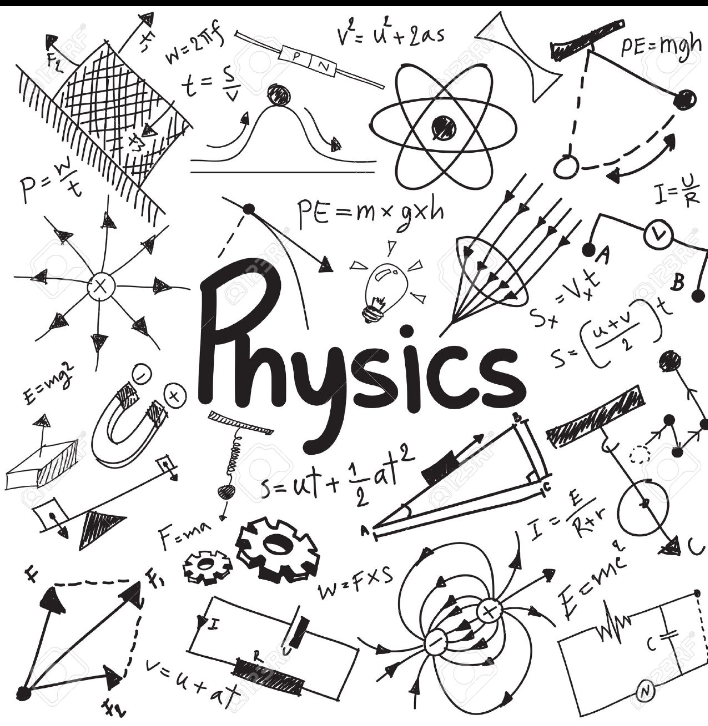
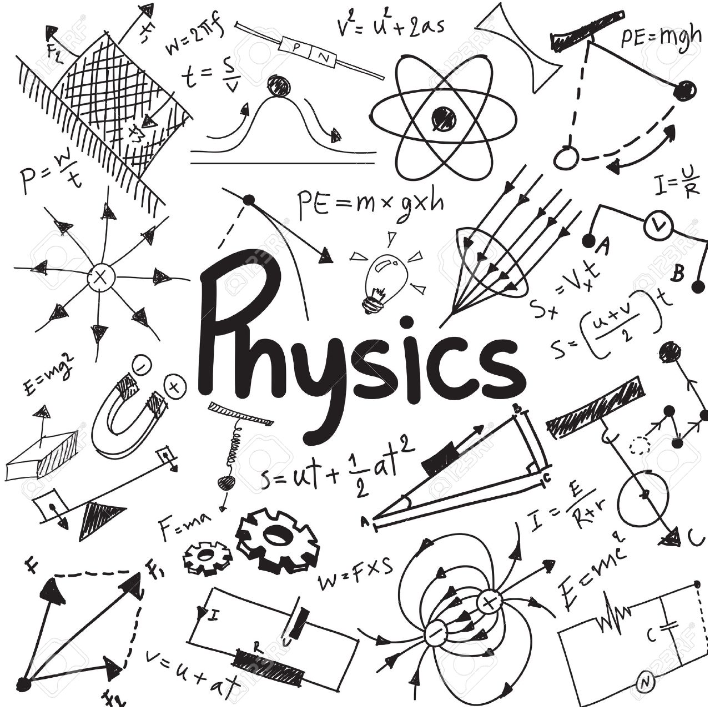
physics updated and some photo is also added

diff --git a/extensions/Subjects/Physics.html b/extensions/Subjects/Physics.html
@@ -1,107 +1,97 @@
 <!doctype html>
 <html lang="en">
-  <head>
-    
-    <meta charset="utf-8">
-    <meta name="viewport" content="width=device-width, initial-scale=1">
 
-    <!--<style type = css>
-       .alpha { color: $purple; }
-.beta {
-  color: $yellow-300;
-  background-color: $indigo-900;
-}
-    </style>-->
-    <link href="https://cdn.jsdelivr.net/npm/bootstrap@5.0.0-beta3/dist/css/bootstrap.min.css" rel="stylesheet" integrity="sha384-eOJMYsd53ii+scO/bJGFsiCZc+5NDVN2yr8+0RDqr0Ql0h+rP48ckxlpbzKgwra6" crossorigin="anonymous">
- <!--  <style>
-      body{
-        background : turquoise;
-      }-->
-    </style>
-    <title>Physics Assignments</title>
-    <style>
-      body{
-        background : turquoise;
-      }
-    </style>
-  </head>
-  <body>
-    
-  <div class ="card col-lg-55 mx-auto" style="width: 18rem;">
-    <div class="card" style="width: 18rem;">
-               
-            
-        <div class="card-body">
-          <h2 class="card-title">Physics</h>
-          <p class="card-text" "container"><strong>Latest Assignments</strong><br></p>
-        
-        </div>
+<head>
+
+  <meta charset="utf-8">
+  <meta name="viewport" content="width=device-width, initial-scale=1">
+
+  <link href="https://cdn.jsdelivr.net/npm/bootstrap@5.0.0-beta3/dist/css/bootstrap.min.css" rel="stylesheet"
+    integrity="sha384-eOJMYsd53ii+scO/bJGFsiCZc+5NDVN2yr8+0RDqr0Ql0h+rP48ckxlpbzKgwra6" crossorigin="anonymous">
+
+  <link rel="stylesheet" href="../../static/css/physics.css">
+  <title>Physics Assignments</title>
+</head>
+
+<body>
+
+  <header class="container-fluid text-center p-2 shadow">
+    <h2>Physics</h2>
+  </header>
+
+  <main class="container-fluid">
+    <section>
+      <h4 class="bg-success p-2 my-md-2">Latest Physics Assignments</h4>
+      <div class="container-fluid">
+        <a href="https://www.bits-pilani.ac.in/uploads/Manjuladevi/BI-Prism_Wavelength_of_Sodium.pdf"
+          class="list-group-item list-group-item-action list-group-item-primary"><span class="fw-bolder">Experiment
+            1:</span> To determine the
+          wavelength of sodium light with help of Fresnel's Bi-Prism!</a>
+        <a href="https://www.nitj.ac.in/physics/Downloads/LabManual6330.pdf"
+          class="list-group-item list-group-item-action list-group-item-secondary"><span class="fw-bolder">Experiment
+            2:</span> To Determine the
+          refractive index and dispersive power of the material of prism with the help of sprectometer!</a>
+          <a href="https://www.ucd.ie/t4cms/2labman_newtons8.pdf"
+          class="list-group-item list-group-item-action list-group-item-success"><span class="fw-bolder">Experiment
+            3:</span> To determine the
+          sodium light by Newton's ring method!</a>
+          <a href="https://www.niser.ac.in/sps/sites/default/files/basic_page/Sodium%20D-line%20splitting.pdf"
+          class="list-group-item list-group-item-action list-group-item-danger"><span class="fw-bolder">Experiment
+            4:</span> To determine the
+          wavelength of sodium light by plane diffraction grating using spectrometer</a>
+          <a href="https://physics.iitd.ac.in/assets/uploads/teaching-labs/12.pdf"
+          class="list-group-item list-group-item-action list-group-item-warning"><span class="fw-bolder">Experiment
+            5:</span> To demonstrate the
+          diffraction pattern and determine the wavelength using plane diffraction grating and spectrometer!</a>
+        <a href="http://satish0402.weebly.com/uploads/9/4/6/7/9467277/polarimeter.pdf"
+          class="list-group-item list-group-item-action list-group-item-info"><span class="fw-bolder">Experiment
+            6:</span> To determine the
+          wavelength and number of lines on a diffraction grating suing semicondutor laser diod!</a>
+
+        <a href="http://web.physics.ucsb.edu/~phys128/experiments/interferometry/measuring_wavelength.pdf"
+          class="list-group-item list-group-item-action list-group-item-dark"><span class="fw-bolder">Experiment
+            7:</span> To determine the
+          specific to rotation of sugar solution with the help of polarimeter!</a>
+        <a href="http://www1.phys.vt.edu/~labs/phys3455/fall07/ph3455_lab1.pdf"
+          class="list-group-item list-group-item-action list-group-item-primary"><span class="fw-bolder">Experiment
+            8:</span> Determine the
+          width of the single slit and diameter of circular aperature using Fraunhofer diffraction pattern produced be
+          semicondutorlaser diod!</a>
+        <a href="https://physics.iitd.ac.in/assets/uploads/teaching-labs/9.pdf"
+          class="list-group-item list-group-item-action list-group-item-secondary"><span class="fw-bolder">Experiment
+            9:</span> To determine the
+          e/m ratio bt Thomson's method!</a>
+        <a href="https://www.iitr.ac.in/departments/PH/uploads/Teaching%20Laboratory/Electronics/1.%20PN%20junction%20Diode%20characteristics_Final.pdf"
+          class="list-group-item list-group-item-action list-group-item-success"><span class="fw-bolder">Experiment
+            10:</span>To study the P-N
+          junction diod characteristics, in forwarded and reverse bias conditions!</a>
+        <a href="https://www.cmi.ac.in/~debangshu/lab1/zener.pdf"
+          class="list-group-item list-group-item-action list-group-item-danger"><span class="fw-bolder">Experiment
+            11:</span> To study the Zener
+          diod characteristics!</a>
+        <a href="https://www.iitr.ac.in/departments/PH/uploads/Teaching%20Laboratory/Electronics/2.Draw%20input%20and%20Output%20characteristics%20of%20a%20bipolar%20transistor.pdf"
+          class="list-group-item list-group-item-action list-group-item-warning"><span class="fw-bolder">Experiment
+            12:</span> To study the
+          characteristicsand gain od transistor in C-B and C-E mode!</a>
+
       </div>
-    </div>
-    <br><br><br>
+    </section>
 
-    <div class="list-group">
-        <div class ="card col-lg-55 mx-auto" style="width: 40rem;">
-        <a href="#" class="list-group-item list-group-item-action"><strong>List of all experiments</strong></a>
-        <div class ="card col-lg-55 mx-auto" style="width: 30rem;">
-      
-        <a href="https://www.bits-pilani.ac.in/uploads/Manjuladevi/BI-Prism_Wavelength_of_Sodium.pdf" class="list-group-item list-group-item-action list-group-item-primary"><b>Experiment 1:</b> To determine the wavelength of sodium light with help of Fresnel's Bi-Prism!</a>
-        <a href="https://www.nitj.ac.in/physics/Downloads/LabManual6330.pdf" class="list-group-item list-group-item-action list-group-item-secondary"><b>Experiment 2:</b> To Determine the refractive index and dispersive power of the material of prism with the help of sprectometer!</a>
-        <a href="https://www.ucd.ie/t4cms/2labman_newtons8.pdf" class="list-group-item list-group-item-action list-group-item-success"><b>Experiment 3:</b> To determine the sodium light by Newton's ring method!</a>
-        <a href="https://www.niser.ac.in/sps/sites/default/files/basic_page/Sodium%20D-line%20splitting.pdf" class="list-group-item list-group-item-action list-group-item-danger"><b>Experiment 4:</b> To determine the wavelength of sodium light by plane diffraction grating using spectrometer</a>
-        <a href="https://physics.iitd.ac.in/assets/uploads/teaching-labs/12.pdf" class="list-group-item list-group-item-action list-group-item-warning"><b>Experiment 5:</b> To demonstrate the diffraction pattern and determine the wavelength using plane diffraction grating and spectrometer!</a>
-        <a href="http://satish0402.weebly.com/uploads/9/4/6/7/9467277/polarimeter.pdf" class="list-group-item list-group-item-action list-group-item-info"><b>Experiment 6:</b> To determine the wavelength and number of lines on a diffraction grating suing semicondutor laser diod!</a>
-        
-        <a href="http://web.physics.ucsb.edu/~phys128/experiments/interferometry/measuring_wavelength.pdf" class="list-group-item list-group-item-action list-group-item-dark"><b>Experiment 7:</b> To determine the specific to rotation of sugar solution with the help of polarimeter!</a>
-        <a href="http://www1.phys.vt.edu/~labs/phys3455/fall07/ph3455_lab1.pdf" class="list-group-item list-group-item-action list-group-item-primary"><b>Expertiment 8:</b> Determine the width of the single slit and diameter of circular aperature using Fraunhofer diffraction pattern produced be semicondutorlaser diod!</a>
-        <a href="https://physics.iitd.ac.in/assets/uploads/teaching-labs/9.pdf" class="list-group-item list-group-item-action list-group-item-secondary"><b>Experiment 9:</b> To determine the e/m ratio bt Thomson's method!</a>
-        <a href="https://www.iitr.ac.in/departments/PH/uploads/Teaching%20Laboratory/Electronics/1.%20PN%20junction%20Diode%20characteristics_Final.pdf" class="list-group-item list-group-item-action list-group-item-success"><b>Experiment 10:</b>To study the P-N junction diod characteristics, in forwarded and reverse bias conditions!</a>
-        <a href="https://www.cmi.ac.in/~debangshu/lab1/zener.pdf" class="list-group-item list-group-item-action list-group-item-danger"><b>Experiment 11:</b> To study the Zener diod characteristics!</a>
-        <a href="https://www.iitr.ac.in/departments/PH/uploads/Teaching%20Laboratory/Electronics/2.Draw%20input%20and%20Output%20characteristics%20of%20a%20bipolar%20transistor.pdf" class="list-group-item list-group-item-action list-group-item-warning"><b>Experiment 12:</b> To study the characteristicsand gain od transistor in C-B and C-E mode!</a>
-        
+    <a href="../../index.html" class="btn btn-primary container-fluid my-md-3 fw-bolder">Back to home</a>
 
+  </main>
 
-       
+    <script src="https://cdn.jsdelivr.net/npm/bootstrap@5.0.0-beta3/dist/js/bootstrap.bundle.min.js"
+      integrity="sha384-JEW9xMcG8R+pH31jmWH6WWP0WintQrMb4s7ZOdauHnUtxwoG2vI5DkLtS3qm9Ekf"
+      crossorigin="anonymous"></script>
 
+    <script src="https://cdn.jsdelivr.net/npm/@popperjs/core@2.9.1/dist/umd/popper.min.js"
+      integrity="sha384-SR1sx49pcuLnqZUnnPwx6FCym0wLsk5JZuNx2bPPENzswTNFaQU1RDvt3wT4gWFG"
+      crossorigin="anonymous"></script>
+    <script src="https://cdn.jsdelivr.net/npm/bootstrap@5.0.0-beta3/dist/js/bootstrap.min.js"
+      integrity="sha384-j0CNLUeiqtyaRmlzUHCPZ+Gy5fQu0dQ6eZ/xAww941Ai1SxSY+0EQqNXNE6DZiVc"
+      crossorigin="anonymous"></script>
 
-        <br>
-        
-       
+</body>
 
-
-
-</div>
-<a href="https://moonshotthinkers.github.io/QualityEducation/" class="list-group-item list-group-item-action list-group-item-info" ><strong>HOME</strong></a>
-</div>
-
-
-
-
-
-
-
-
-
-
-
-
-
-
-
-
-
-
-
-
-
-
-
-
-    <script src="https://cdn.jsdelivr.net/npm/bootstrap@5.0.0-beta3/dist/js/bootstrap.bundle.min.js" integrity="sha384-JEW9xMcG8R+pH31jmWH6WWP0WintQrMb4s7ZOdauHnUtxwoG2vI5DkLtS3qm9Ekf" crossorigin="anonymous"></script>
-
-    
-    <script src="https://cdn.jsdelivr.net/npm/@popperjs/core@2.9.1/dist/umd/popper.min.js" integrity="sha384-SR1sx49pcuLnqZUnnPwx6FCym0wLsk5JZuNx2bPPENzswTNFaQU1RDvt3wT4gWFG" crossorigin="anonymous"></script>
-    <script src="https://cdn.jsdelivr.net/npm/bootstrap@5.0.0-beta3/dist/js/bootstrap.min.js" integrity="sha384-j0CNLUeiqtyaRmlzUHCPZ+Gy5fQu0dQ6eZ/xAww941Ai1SxSY+0EQqNXNE6DZiVc" crossorigin="anonymous"></script>
-    
-  </body>
 </html>

diff --git a/extensions/allsubs.html b/extensions/allsubs.html
@@ -23,7 +23,7 @@
   <div class="row row-cols-4 gap-3 mx-auto border justify-content-center">
 
     <div class="card col align-items-center justify-content-center">
-      <img src="../static/images/physics.png" alt="Image">
+      <img src="../static/images/physics-doodles-lettering-education-vector-illustration-physics-doodles-lettering-135625483.jpg" alt="Image">
       <h4>Physics</h4>
       <a class="container-fluid btn btn-primary fw-bolder" role="button" href="Subjects/Physics.html">Learn</a>
     </div>
@@ -50,7 +50,7 @@
 
   </div>
 
-  <a href="../index.html" class="container-fluid btn btn-primary mx-auto fw-bolder" role="button">Back to Home</a>
+  <a href="../index.html" class="container-fluid btn btn-primary mx-auto fw-bolder my-md-2" role="button">Back to Home</a>
 
   <script src="https://cdn.jsdelivr.net/npm/bootstrap@5.0.0-beta3/dist/js/bootstrap.bundle.min.js"
     integrity="sha384-JEW9xMcG8R+pH31jmWH6WWP0WintQrMb4s7ZOdauHnUtxwoG2vI5DkLtS3qm9Ekf"

diff --git a/index.html b/index.html
@@ -121,7 +121,7 @@
         </div>
         <div class="row align-items-center border border-primary p-2">
             <div class="border col">
-                <img src="static/Profile Photo/i3.jpeg" class="card-img-left" alt="profile">
+                <img src="static/Profile Photo/i3.jpg" class="card-img-left" alt="profile">
                 <h4 class="card-title">Devi Priya</h4>
             </div>
             <div class="container col">

diff --git a/static/css/physics.css b/static/css/physics.css
@@ -1,0 +1,7 @@
+header{
+    background: lightblue;
+}
+
+main section div a{
+    padding: 30px;
+}
